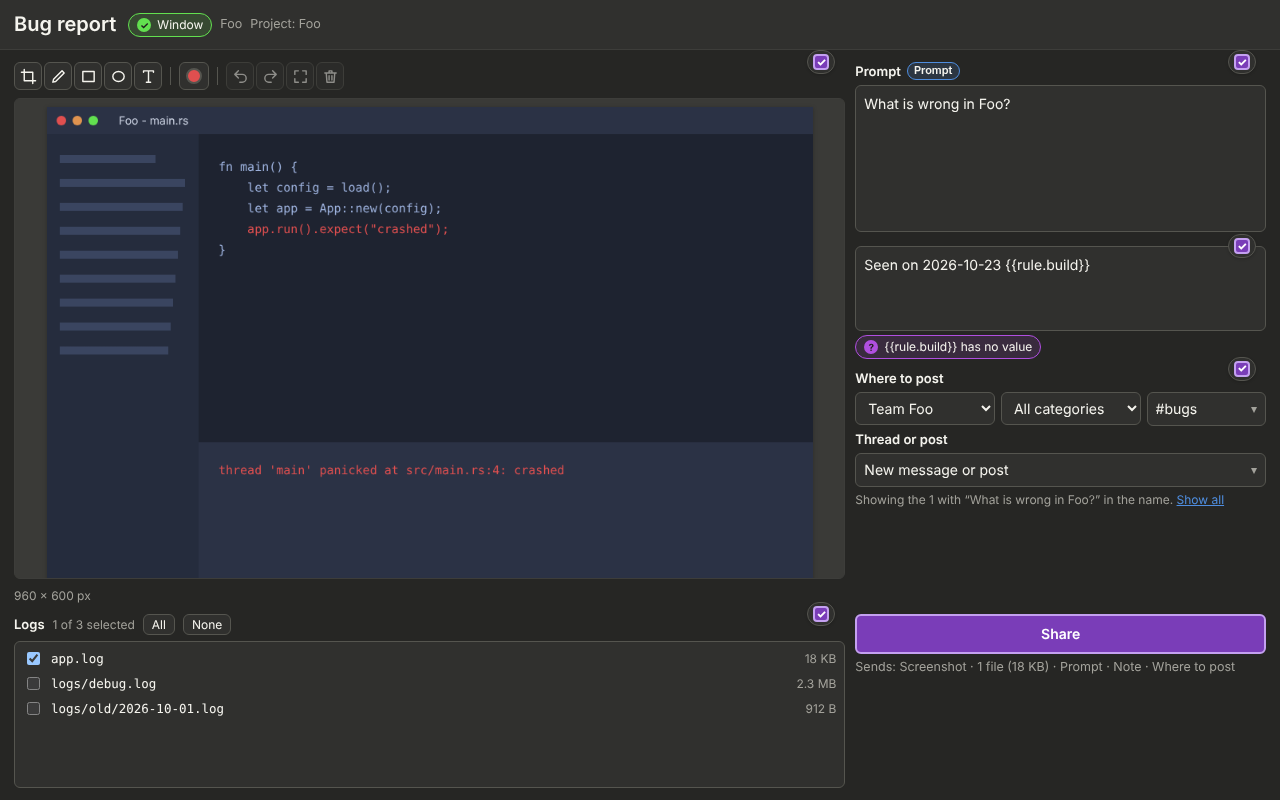
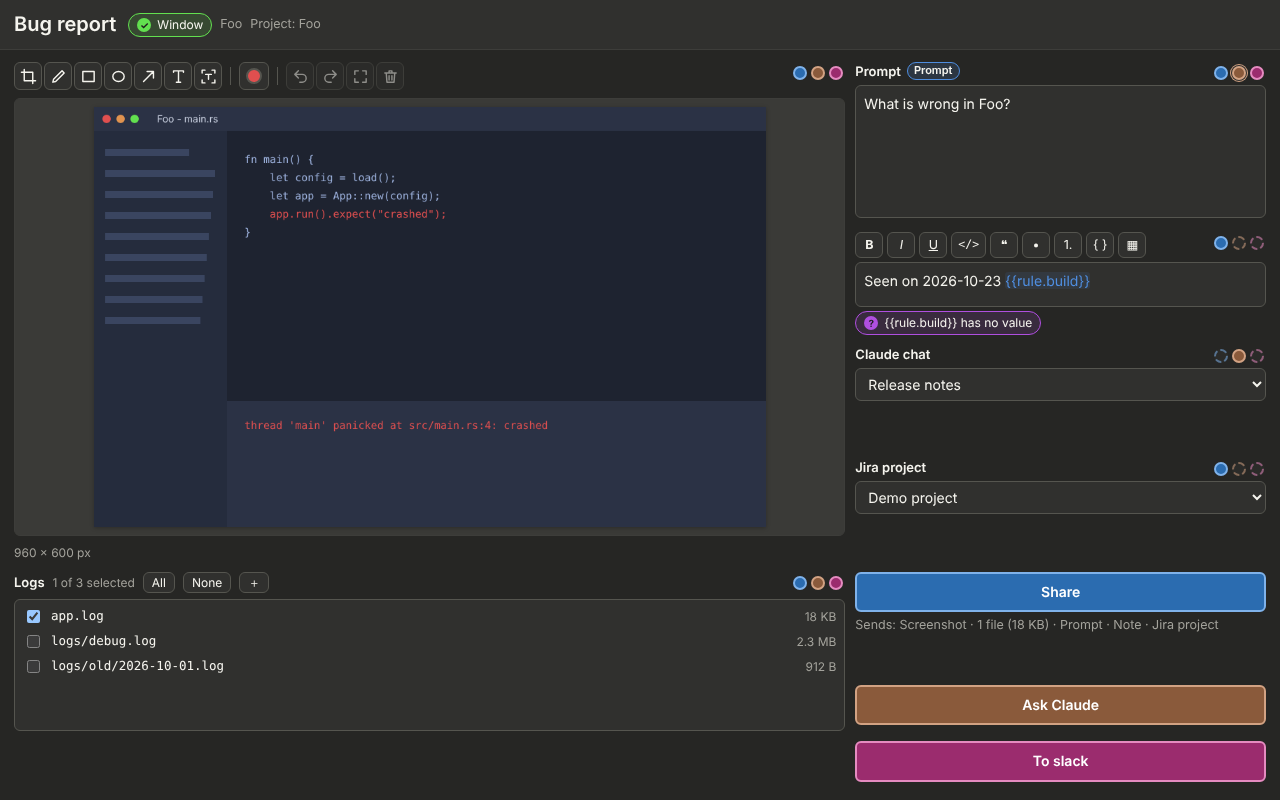
README for 0.4.1: Linux from Releases, updates, tabs, log time search
- Version 0.4.1; Linux installs from the Releases tarball; checksums
  and Check for updates
- Blocks list with Tags, Log viewer and Tabs; tabs in the builder (the
  grip) and in the bigger templates
- The recording's keys, time and window-following told apart; log lines
  by time under the Log viewer
- Window pictures retaken: the sharing dots, and the Jira recording
  template with its tabs

Claude-Session: https://claude.ai/code/session_01RJQoKvDAA6dNcdtgMjnf8e

diff --git a/README.md b/README.md
@@ -6,12 +6,12 @@
 </p>
 
 <p align="center"><b>Share what is on your screen, with the context around it, in one shortcut.</b><br>
-Windows 11 and Linux · version 0.4.0 (beta)</p>
+Windows 11 and Linux · version 0.4.1 (beta)</p>
 
 <p align="center">
   <picture>
     <source media="(prefers-color-scheme: dark)" srcset="docs/images/capture-dark.png">
-    <img alt="The CargoFrame window: the screenshot, a note, where to post, and the sharing buttons" src="docs/images/capture-light.png" width="760">
+    <img alt="The CargoFrame window: the screenshot, a note, where to post, the sharing buttons, and a dot per button on each block" src="docs/images/capture-light.png" width="760">
   </picture>
 </p>
 
@@ -77,12 +77,18 @@ flowchart LR
 administrator password is needed. Windows may say the publisher is unknown (the installer is not signed yet): choose
 **More info**, then **Run anyway**. CargoFrame then opens on its **Setup** page.
 
-<details>
-<summary><b>Linux, silent install, uninstall, video</b></summary>
+**Linux (x64):** download **CargoFrame-<version>-linux-x64.tar.gz** from **Releases**, unpack it and run
+`./install.sh`.
 
-- **Linux (x64):** download the **linux-appimage** file from the **Bundle** run on GitHub (Actions), unzip it and run
-  `./install.sh` (`--no-startup` to keep it from starting at sign-in). The tray needs a system tray: KDE has one, GNOME
-  needs the AppIndicator extension. Uninstall with `./uninstall.sh` (`--delete-data` also removes your settings).
+Each release also has **SHA256SUMS.txt** to check the download. To update, run the new installer over the old one
+(your settings stay), or press **Check for updates** in *Settings, About*.
+
+<details>
+<summary><b>Linux details, silent install, uninstall, video</b></summary>
+
+- **Linux:** `./install.sh --no-startup` keeps it from starting at sign-in. The tray needs a system tray: KDE has
+  one, GNOME needs the AppIndicator extension. Uninstall with `./uninstall.sh` (`--delete-data` also removes your
+  settings).
 - **Wayland** (GNOME, KDE, sway, Hyprland) works too: CargoFrame hands each shortcut to the desktop (on GNOME it
   appears in *Settings, Keyboard, Custom Shortcuts*). *Settings, Setup* lists what Wayland needs: the desktop portal
   (or `grim`), GStreamer with its PipeWire plugin for video, `wtype` on sway and Hyprland. How each desktop is handled:
@@ -101,7 +107,7 @@ The app starts empty. Open **Settings** by left-clicking the tray icon, then:
 | Step | Where | What you do |
 |:----:|-------|-------------|
 | 1 | **Setup, Connections** | Add the service you share to. A button beside each token field opens the page where you get it. Skip this to start with **Save locally** |
-| 2 | **Layouts** | Press **Start from a template**, then **Use**, change what you like, **Save**. A layout is the window a capture opens |
+| 2 | **Layouts** | Press **Start from a template**, then **Use**, change what you like, **Save**. A layout is the window a capture opens. Bigger templates keep the screenshot and the logs in tabs |
 | 3 | **Triggers** | Name it, click **Shortcut** and press the keys, pick your layout, **Save** |
 
 <table>
@@ -110,7 +116,7 @@ The app starts empty. Open **Settings** by left-clicking the tray icon, then:
 <td width="50%"><img alt="Settings, Triggers: name, shortcut, layout and what the screenshot shows" src="docs/images/trigger-form.png"></td>
 </tr>
 <tr>
-<td><b>Layouts.</b> Add blocks, drag them, resize them. A <b>Video</b> block makes the shortcut record.</td>
+<td><b>Layouts.</b> Add blocks, drag them, resize them, group them in tabs. A <b>Video</b> block makes the shortcut record.</td>
 <td><b>Triggers.</b> A shortcut and the layout it opens. That is all a trigger needs.</td>
 </tr>
 </table>
@@ -138,7 +144,7 @@ or click the ones you want. *Try again* reads it another way. It is read on your
 |------|---------|
 | **Trigger** | A shortcut, and the layout it opens |
 | **Layout** | The window a capture opens: blocks on a grid of 12 columns, or more (up to 24) for a wider window |
-| **Block** | One piece of the window: Screenshot, Video, Text, Dropdown, Files, or a sharing button |
+| **Block** | One piece of the window: Screenshot, Video, Text, Dropdown, Files, Tags, Log viewer, Tabs, or a sharing button |
 | **Connection** | A service you signed in to (Jira, Slack…) |
 | **Where to post** | One dropdown that goes as deep as the service does: project, or server, channel, thread |
 | **Data & fields** | *Read from files*: if a file is found in the program's folder, add it to the files and read values from it (`{{rule.gpu}}`). *Fill fields*: fill a field of the service on each share, with steps such as "if `{{rule.gpu}}` is found, add the label `gpu-{{rule.gpu}}`" |
@@ -159,7 +165,7 @@ everything it sends (the picture itself for a screenshot or a recording).
 <details>
 <summary><b>In the window: recording, trimming, marking</b></summary>
 
-<img alt="The CargoFrame window with a recording: trim handles, crop and mark" src="docs/images/capture-recording.png" width="640">
+<img alt="The CargoFrame window from the Jira recording template: tabs for the recording, the screenshot and the logs; the recording's tools above it and the trim handles under it" src="docs/images/capture-recording.png" width="640">
 
 Only the last seconds are kept (10 by default, *Settings, Recording*). Drag the two handles under it to trim; the
 icons above it, as on a screenshot, **crop** (drag a frame, then *Apply crop*) and draw **marks** with the screenshot's
@@ -171,17 +177,19 @@ the time. Each press of a video shortcut then opens its window with the last sec
 a shortcut 2 seconds again to stop. The tray menu does the same (on Wayland it is the way to start and stop).
 
 **Keys pressed:** turn on *Show the keys pressed on the recording* on a Video block, and each key shows over the clip
-when it was pressed ("Ctrl+S", "hello ⏎"). Drag the keys where you want them, or take them off with their ×. Every key
-typed while it records shows, passwords too; not on Wayland. **A window that is moved:** with *Follow the window when
-it is moved* on (*Settings, Recording*), the whole screen is recorded and the clip stays on the window as it moves.
-**The time:** the clock above a recording shows the time of each moment over it (2026-11-12 14:03:27), sent the same way;
-in a Log viewer, the clock button at the start of the search row turns it to a time search that keeps the lines written during the recording, or between
-two times. Logs write their time in many ways: type the one yours uses in the format box (`[YYYY_MM_DD] HH:mm -`,
-`MM_DD_HH_mm_ss`), or let a data rule set it for the file it finds; the last one used for a file comes back next time.
+when it was pressed ("Ctrl+S", "hello ⏎"). Drag the keys where you want them, take them off with their ×, and bring
+them back with the keyboard icon. Every key typed while it records shows, passwords too; not on Wayland.
+
+**The time:** the clock icon shows the time of each moment over the recording (2026-11-12 14:03:27), the way logs
+write it; it is sent as you see it. To find the log lines of that moment, see *Log viewer* below.
+
+**A window that is moved:** with *Follow the window when it is moved* on (*Settings, Recording*), the whole screen is
+recorded and the crop follows the window as it moves.
 
 Click the Video block in the layout builder to choose the screen or the window in
-focus, the computer's sound (on by default) and a microphone (off). Tick *Also take a screenshot when the recording
-ends* to get both. Recordings go to Jira, GitHub, Google, Slack, Discord and Save locally; the other services get the still.
+focus, the computer's sound (on by default) and a microphone (off). With a Screenshot block in the layout too, tick
+*Also take a screenshot when the recording ends* to start it with that picture, or take one from the recording with the
+camera icon. Recordings go to Jira, GitHub, Google, Slack, Discord and Save locally; the other services get the still.
 
 </details>
 
@@ -215,9 +223,14 @@ ends* to get both. Recordings go to Jira, GitHub, Google, Slack, Discord and Sav
 - **Log viewer:** a block that shows a file of the window line by line. Type `error` in its search to see only those
   lines, pick one to read it whole and copy it, or *Copy all*. The expand icon opens it large in the middle of the
   window; the cross or Escape closes it.
+- **Log lines by time:** the clock button at the start of the log viewer's search row turns it to a time search: the
+  lines written during the recording, around the screenshot, or between two times you type (the magnifier turns it
+  back). Logs write their time in many ways: type the one yours uses in the format box (`[YYYY_MM_DD] HH:mm -`,
+  `MM_DD_HH_mm_ss`) and the missing day or year is taken from the capture; or let a data rule set it for the file it
+  finds. The last format used for a file comes back next time.
 - **Tabs:** a Tabs block is a binder: 2 to 5 tabs (named, with the names on the top, bottom, left or right), each
-  holding blocks. In the layout builder, click a tab's name and drop blocks inside; in the window, click a tab to see
-  its blocks. What is in the other tabs is kept and sent.
+  holding blocks. In the layout builder, click a tab's name and drop blocks inside; drag the grip at its top right to
+  move it with its blocks. In the window, click a tab to see its blocks. What is in the other tabs is kept and sent.
 - **Values made from other values:** in *Data & fields*, *Make a value from other values*: for example a build id
   `{{rule.stream}}_{{rule.change}}_{{rule.shelf}}_{{rule.config}}` when a shelf is found, else without it.
 - **One-line text:** tick *One line high* on a Text block to keep its box one line tall; any Text block keeps at least
@@ -231,9 +244,11 @@ ends* to get both. Recordings go to Jira, GitHub, Google, Slack, Discord and Sav
 <summary><b>Templates, clean-up and your data</b></summary>
 
 Templates are offered for the services you connected: *Save a capture locally*, *Save a recording locally*, Jira
-*Bug report* (also with a recording) and *Comment on an issue*, Google *Drive upload* (also a recording) and *Sheet
-row*, Slack *Message* (also with a recording), *Ask Claude about a capture*, and a *Message* or *Post* for each
-other service.
+*Bug report* (also with a recording) and *Comment on an issue*, GitHub *Issue* and *Comment on an issue*, Google
+*Drive upload* (also a recording) and *Sheet row*, Slack *Message* (also with a recording), *Ask Claude about a
+capture*, and a *Message* or *Post* for each other service. The ones with much to fill in (Jira bug report, GitHub
+issue, Slack, Discord, Ask Claude) keep the screenshot and a *Logs* tab (files and a log viewer) in tabs; with a
+recording, a *Recording* tab comes first.
 
 | Remove | How | Gentler |
 |--------|-----|---------|
